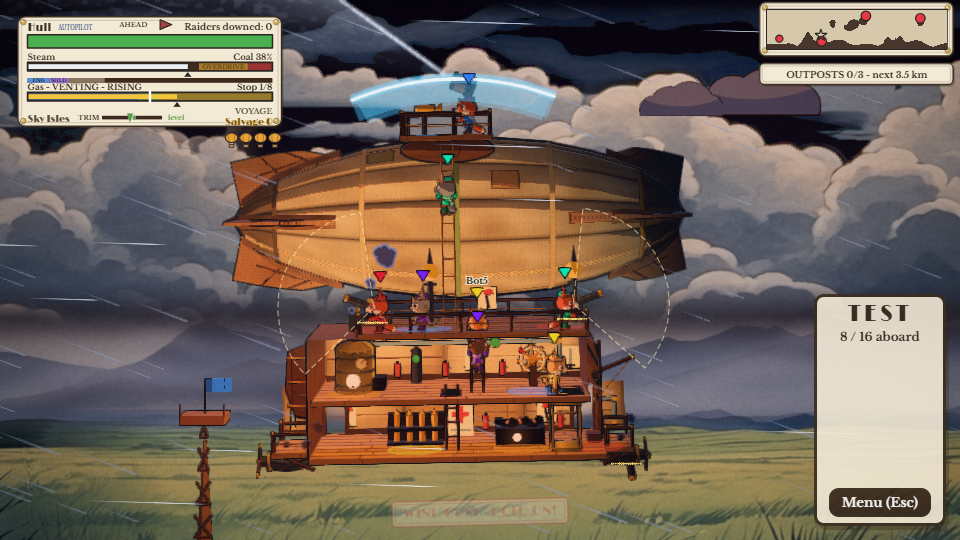
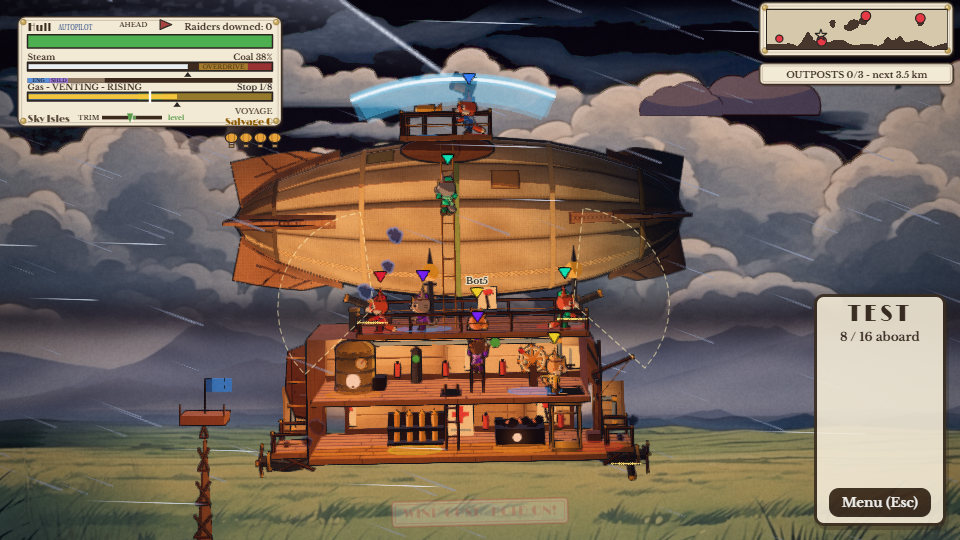
Camera: zoomed out (owner) - the ship takes at most 40% of the screen width (was 53%) and 62% of its height (was all of it); 3D fixtures re-captured

diff --git a/public/config.js b/public/config.js
@@ -12,7 +12,7 @@ export const config = {
   },
   // Camera framing.
   CAMERA: {
-    SHIP_SCREEN_FRACTION: 0.53, // the ship (incl. its long gasbag) takes at most this much of the screen width; the hull reads ~20% bigger than before
+    SHIP_SCREEN_FRACTION: 0.4, SHIP_SCREEN_HEIGHT_FRACTION: 0.62, // the ship (incl. its long gasbag) takes at most this much of the screen width, and this much of its height (owner, 2026-10-11: zoomed out from 0.53 / full height - it felt tight on the airship)
     ENEMY_MARGIN: 260, // empty sky kept around the enemy plane (world pixels)
     MAX_ZOOM_OUT: 1.8, // never zoom out more than this beyond the normal view
     CREATURE: { MAX_ZOOM_OUT: 2.4, DRAKE_MAX_ZOOM_OUT: 3.4, MARGIN: 200 }, // while a giant creature is alive the cap is this (BOSSES.md 3.2; the Cinder Drake flies about the ship in loops 8000 px across: DRAKE_MAX_ZOOM_OUT), and its living parts are kept in view with this much margin (world pixels)

diff --git a/public/modules/host/camera.js b/public/modules/host/camera.js
@@ -94,7 +94,7 @@ export function createWorldCamera() {
       y1 = Math.max(y1, e.y + C.ENEMY_MARGIN);
     }
     // Normal zoom: the biggest ship fills the allowed fraction of the width (and fits vertically).
-    const baseZoom0 = Math.min(width / (bigW / C.SHIP_SCREEN_FRACTION), height / bigH);
+    const baseZoom0 = Math.min(width / (bigW / C.SHIP_SCREEN_FRACTION), height / (bigH / (C.SHIP_SCREEN_HEIGHT_FRACTION || 1)));
     const baseZoom = baseZoom0 * zoomMul; // (the split's main view looks a little wider than the one ship's normal framing)
     const fitZoom = Math.min(width / (x1 - x0), height / (y1 - y0));
     const minZoom = baseZoom0 / maxOut;
